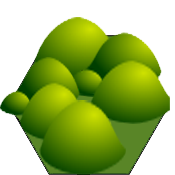
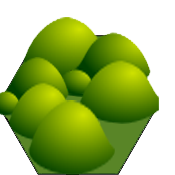
Added a field of vision around the units.

diff --git a/src/GameMap.java b/src/GameMap.java
@@ -2,16 +2,15 @@ package src;
 
 import java.util.ArrayList;
 
+import static src.State.UnitState.Selected;
+
 public class GameMap{
+    private static final State state = State.getInstance();
     private Tile currentTile = null;
-    private Tile[][] tiles = {
-            {new Tile(TerrainType.Mountain, new PhysicalUnit(PhysicalUnitType.Musketeer), 0, 0), new Tile(TerrainType.Mountain, 0, 1), new Tile(TerrainType.Mountain, 0, 2)},
-            {new Tile(TerrainType.Mountain, 1, 0), new Tile(TerrainType.Desert, new PhysicalUnit(PhysicalUnitType.Musketeer), 1, 1), new Tile(TerrainType.Mountain, 1, 2)},
-            {new Tile(TerrainType.Mountain, 2, 0), new Tile(TerrainType.Desert, 2, 1), new Tile(TerrainType.Mountain, 2, 2)},
-    };
+    private Tile[][] tiles;
     private static GameMap map;
     private GameMapView gmv;
-    private int height = 3, width = 3;
+    private int height = 3, width = 7;
 
     private int[][] offsets = {{-1,-1},
                             {0,-1},
@@ -23,10 +22,19 @@ public class GameMap{
 
     public GameMap(GameMapView gmv){
         super();
+        map = this;
 
         // Parsing the map
         parseMap("Put server map data here");
-
+        for(Tile[] temp : tiles){
+            for(Tile tile : temp){
+                if(tile.hasUnit()){ // Check if this unit is owned by the player too
+                    for(Tile t : getNeighbours(tile, 1)){
+                        t.setExplored(true);
+                    }
+                }
+            }
+        }
         this.gmv = gmv;
         // Put all TileViews on the GameMapView
         for(int j=getHeight()-1; j>=0; --j){
@@ -34,7 +42,6 @@ public class GameMap{
                 gmv.add(tiles[i][j].getView());
             }
         }
-        map = this;
     }
 
     /**
@@ -49,7 +56,7 @@ public class GameMap{
      * Get a specific tile from the array.
      */
     public Tile getTile(int x, int y){
-        if(x > getWidth() || y > getHeight() ||
+        if(x >= getWidth() || y >= getHeight() ||
                 x < 0 || y < 0){
             return null;
         } 
@@ -90,44 +97,17 @@ public class GameMap{
     /**
      * Get all neighbours to a tile in an ArrayList(Not finished yet!)
      * @param tile Neighbours to this tile will be returned
-     * @param range Neighbours in this range will be returned
+     * @param range Neighbours in this range will be returned.
      */
     public ArrayList<Tile> getNeighbours(Tile tile, int range){
-        int x = tile.getX();
-        int y = tile.getY();
-
-        ArrayList<Tile> acc = new ArrayList<Tile>();
-
-        for(int[] off : offsets){
-            Tile t = getTile(x - off[0], y - off[1]);
-            if(t != null)
-                acc.add(t);
-        }
-
-        return acc;
-        //return getNeighbours(tile, --range, acc);
-    }
-
-    /**
-     * Not finished yet!
-     */
-    private ArrayList<Tile> getNeighbours(Tile tile, int range, ArrayList<Tile> acc){
-        if(range < 1){
-            acc.remove(tile);
-            return acc;
-        }
-
-        ArrayList<Tile> tmp = new ArrayList<Tile>();
-
-        for(Tile t : acc){
-            for(Tile t2 : getNeighbours(t,1)){
-                if(!acc.contains(t2))
-                    tmp.add(t2);
+        ArrayList<Tile> result = new ArrayList<Tile>();
+        for(int[] t : tile.getNeighbours(range)){
+            Tile temp = getTile(t[0], t[1]);
+            if(temp != null){
+                result.add(temp);
             }
         }
-
-        acc.addAll(tmp);
-        return getNeighbours(tile, --range, acc);            
+        return result;
     }
 
     public int getDistance(Tile a, Tile b){
@@ -140,11 +120,15 @@ public class GameMap{
      * @param terrain Indata from the server interface.
      */
     public void parseMap(String terrain){
-        /*    tiles = {
-              {new Tile(null, 0, false, 0, 0), new Tile(null, 0, false, 0 , 1)},
-              {new Tile(null, 0, true, 1, 0), new Tile(null, 0, false, 1, 1)},
-              {new Tile(null, 0, true, 2, 0), new Tile(null, 0, false, 2, 1)}
-              };
-              */
+        Tile[][] temp = {
+            {new Tile(TerrainType.Mountain, new PhysicalUnit(PhysicalUnitType.Musketeer), 0, 0), new Tile(TerrainType.Mountain, 0, 1), new Tile(TerrainType.Mountain, 0, 2)},
+            {new Tile(TerrainType.Mountain, 1, 0), new Tile(TerrainType.Desert, new PhysicalUnit(PhysicalUnitType.Musketeer), 1, 1), new Tile(TerrainType.Mountain, 1, 2)},
+            {new Tile(TerrainType.Mountain, 2, 0), new Tile(TerrainType.Desert, 2, 1), new Tile(TerrainType.Sea, 2, 2)},
+            {new Tile(TerrainType.Marsh, 3, 0), new Tile(TerrainType.Plains, 3, 1), new Tile(TerrainType.Hills, 3, 2)},
+            {new Tile(TerrainType.Marsh, 4, 0), new Tile(TerrainType.Plains, 4, 1), new Tile(TerrainType.Plains, 4, 2)},
+            {new Tile(TerrainType.Hills, 5, 0), new Tile(TerrainType.Desert, 5, 1), new Tile(TerrainType.Grassland, 5, 2)},
+            {new Tile(TerrainType.Broadleaf, 6, 0), new Tile(TerrainType.Desert, 6, 1), new Tile(TerrainType.Marsh, 6, 2)},
+        };
+        tiles = temp;
     }
 }

diff --git a/src/Tile.java b/src/Tile.java
@@ -5,6 +5,7 @@ import javax.imageio.ImageIO;
 import java.io.File;
 import java.io.IOException;
 import java.lang.Math;
+import java.util.ArrayList;
 
 import static src.State.TileState.Selected;
 import static src.State.TileState.UnSelected;
@@ -18,6 +19,13 @@ public class Tile {
     private TerrainType terrain;
     private PhysicalUnit unit;
     private TileView view;
+
+    private int[][] offsets = {{-1,-1},
+                            {0,-1},
+                            {1,0},
+                            {1,1},
+                            {0,1},
+                            {-1,0}};
 
     public Tile(TerrainType tt, PhysicalUnit pu, int x, int y){
         init(tt, pu, x, y);
@@ -36,7 +44,7 @@ public class Tile {
         selected = false;
         explored = false;
         countToFog = 0;
-        view = new TileView(((x - y)*120)+120, ((x + y)*68), this);
+        view = new TileView(((x - y)*120)+120*2, ((x + y)*68), this);
 
         setUnit(pu);
     }
@@ -85,7 +93,7 @@ public class Tile {
     //This function must be edited 
     public void setUnit(PhysicalUnit pu){
         if(pu != null){
-           setExplored(true);
+            setExplored(true);
         }else{
             countToFog = 0;
         }
@@ -145,4 +153,68 @@ public class Tile {
     public boolean hasFog(){
         return countToFog == 0;
     }
+
+    /**
+     * Get all neighbours to a tile in an ArrayList(Not finished yet!)
+     * @param tile Neighbours to this tile will be returned
+     * @param range Neighbours in this range will be returned.
+     */
+    public ArrayList<int[]> getNeighbours(int range){
+        if(range < 1){
+            return new ArrayList<int[]>();
+        }
+        int x = getX();
+        int y = getY();
+
+        ArrayList<int[]> acc = new ArrayList<int[]>();
+
+        for(int[] off : offsets){
+            int[] t = {x - off[0], y - off[1]}; //Tile t = getTile(x - off[0], y - off[1]);
+            if(t != null)
+                acc.add(t);
+        }
+        if(range > 1){
+            for(int[] off : offsets){
+                int[] t = {x - off[0], y - off[1]}; //Tile t = getTile(x - off[0], y - off[1]);
+                acc.addAll(getNeighbours(t, range - 1, acc));
+            }
+        }
+
+        return acc;
+    }
+
+    // Get neighbours within a range of 1 of the tile.
+    private ArrayList<int[]> getNeighbours(int[] tile){
+        ArrayList<int[]> tmp = new ArrayList<int[]>();
+        for(int[] off : offsets){
+            int[] t = {x - off[0], y - off[1]}; //Tile t = getTile(x - off[0], y - off[1]);
+            if(t != null)
+                tmp.add(t);
+        }
+        return tmp;
+    }
+
+    private ArrayList<int[]> getNeighbours(int[] tile, int range, ArrayList<int[]> acc){
+        if(range < 1){
+            return new ArrayList<int[]>();
+        }
+        int x = tile[0];
+        int y = tile[1];
+
+        ArrayList<int[]> tmp = new ArrayList<int[]>();
+
+        for(int[] t2 : getNeighbours(tile)){
+            if(!acc.contains(t2))
+                tmp.add(t2);
+        }
+        if(range > 1){
+            for(int[] off : offsets){
+                int[] t = {x - off[0], y - off[1]}; //Tile t = getTile(x - off[0], y - off[1]);
+                acc.addAll(getNeighbours(t, range - 1, acc));
+            }
+        }
+
+        return acc;            
+    }
+
 }

diff --git a/src/TileView.java b/src/TileView.java
@@ -68,28 +68,27 @@ public class TileView extends JPanel{
                 g2.setStroke(new BasicStroke(3));
                 g2.drawPolygon(area);
             }
-
-            if(tile.isHilighted()){
-                g.setColor(new Color(240, 200, 50, 120));
-                g.fillPolygon(area);
-            }
-
-            if(tile.hasUnit()){
-                BufferedImage unitImg = tile.getUnitImg();
-
-                int h = unitImg.getTileHeight();
-                int w = unitImg.getTileWidth();
-
-                int x = (w/2) + 20;
-                int y = 150 - h;
-                g.drawImage(unitImg, x, y, this);
-            }
-
         }else{
             //Tile is in total fog so lets just paint it black
             g.setColor(Color.BLACK);
             g.fillPolygon(area);
         }
+        if(tile.isHilighted()){
+            g.setColor(new Color(240, 200, 50, 120));
+            g.fillPolygon(area);
+        }
+
+        if(tile.hasUnit() && !tile.hasFog()){
+            BufferedImage unitImg = tile.getUnitImg();
+
+            int h = unitImg.getTileHeight();
+            int w = unitImg.getTileWidth();
+
+            int x = (w/2) + 20;
+            int y = 150 - h;
+            g.drawImage(unitImg, x, y, this);
+        }
+
         area.translate(positionx, positiony);
     }
 }

diff --git a/src/TerrainType.java b/src/TerrainType.java
@@ -6,15 +6,15 @@ import java.awt.image.BufferedImage;
 import javax.imageio.ImageIO;
 
 public enum TerrainType {
-  /*  Sea("Sea",     50, 0),
+    Sea("Sea",     50, 0),
         Ocean("Ocean",      30, 20),
         Plains("Plains",     25, 0),
         Grassland("Grassland",  25, 0),
-        March("March",      0,  25),
+        Marsh("Marsh",      0,  25),
         Tundra("Tundra",     15, 0),
         Rainforest("Rainforest", 15, 50),
         Conifer("Conifer",    25, 75),
-        Hills("Hills",      25, 100), */
+        Hills("Hills",      25, 100), 
         Broadleaf("Broadleaf",  25, 75), 
         Desert("Desert",     10, 0),
         Mountain("Mountain",   20, 200);
@@ -50,6 +50,14 @@ public enum TerrainType {
 
     public BufferedImage getFogImage(){
         return fogImg;
+    }
+
+    /**
+     * Returns the cost to pass this terrain for the specific unittype.
+     * The range is a scale from 1-10 where 10 is impassable.
+     */
+    public int getRangeCost(PhysicalUnitType unit){
+        return 1;
     }
 
 	public int getAttackBonus() {

diff --git a/src/Move.java b/src/Move.java
@@ -6,6 +6,10 @@ public class Move {
         PhysicalUnit unit = t1.getUnit();
         t1.setUnit(null);
         t2.setUnit(unit);
+        for(Tile t : GameMap.getInstance().getNeighbours(t2, 1)){
+            t.setExplored(true);
+            t.getView().repaint();
+        }
         return true;
 	}
 	
